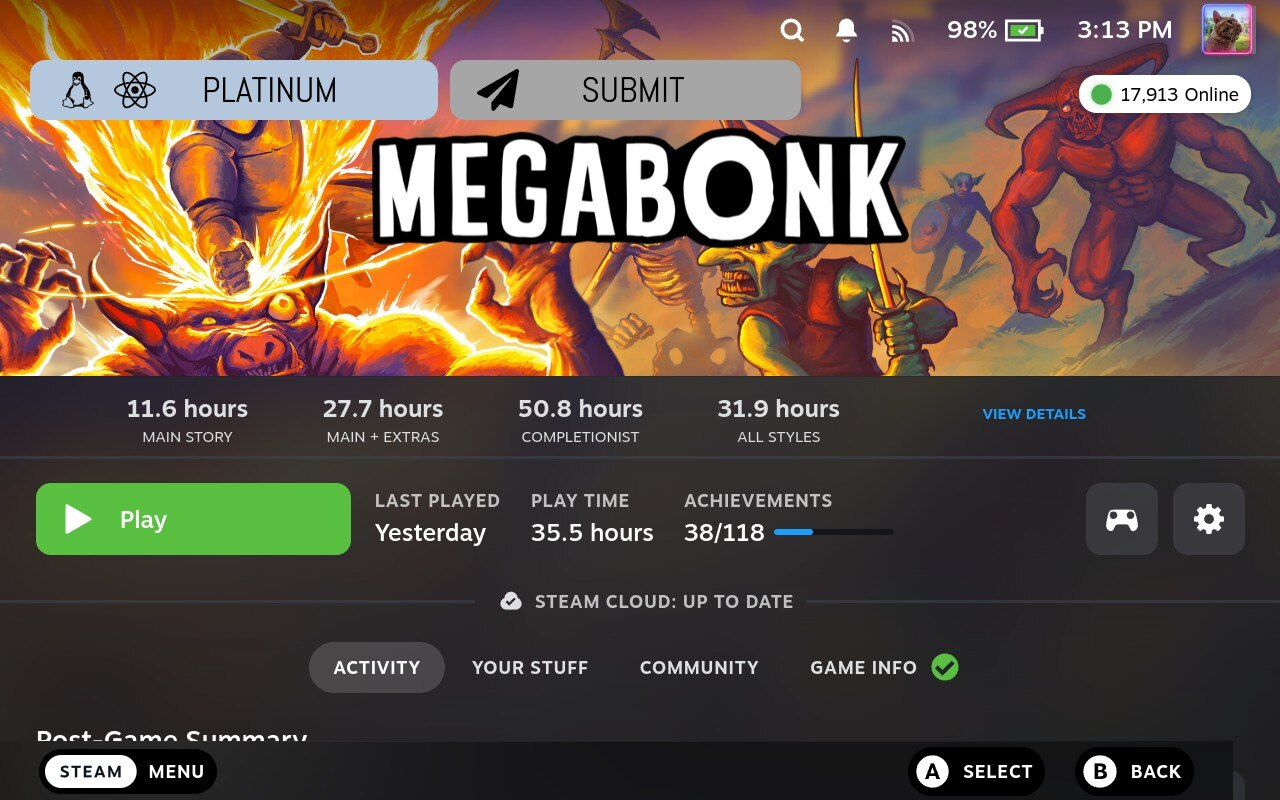
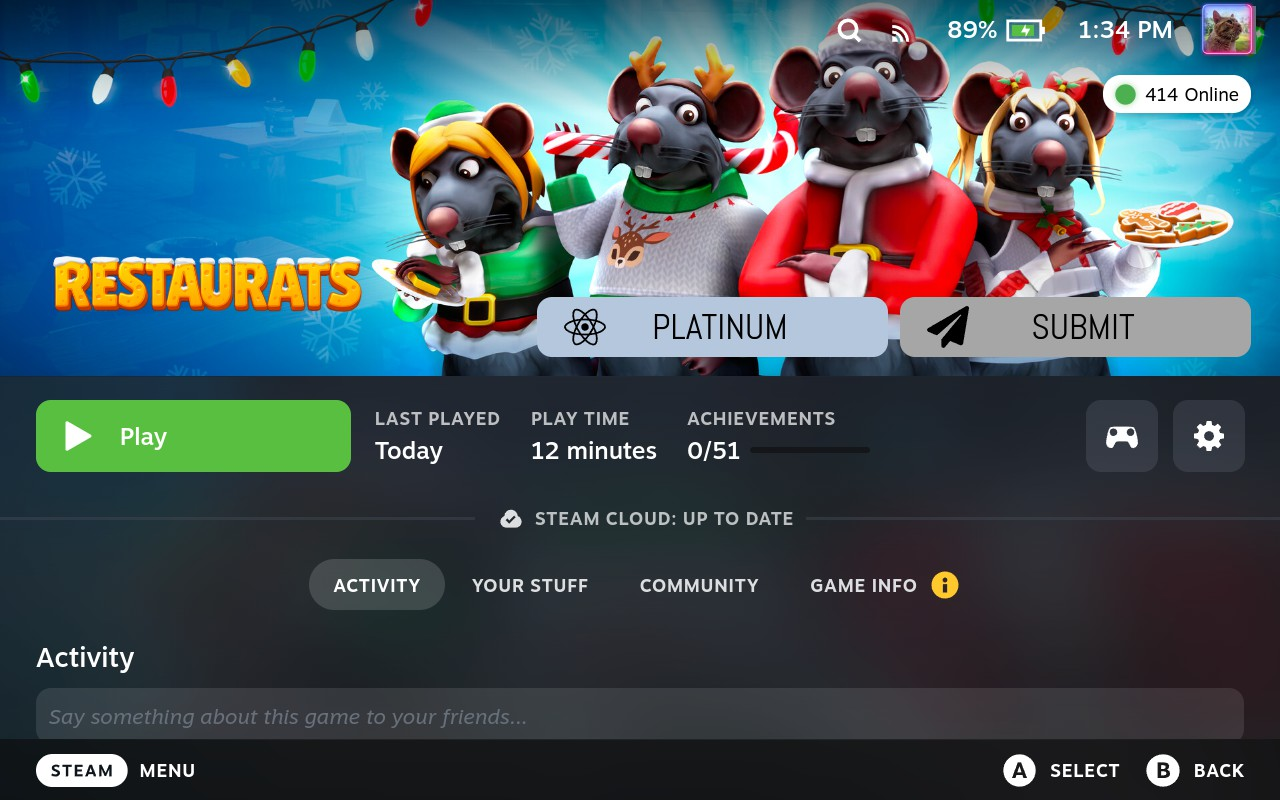
## [0.0.6] - 2025-12-28 ### Added - Toggle to enable/disable library page badges. - Reorganized settings into "Library" and "Store" section, as I think that will be easier in the future. - Updated screenshot & added screenshot in store page.
### Fixed
- Fixed default values for enableLibraryBadge and enableStoreBadge (now enabled by default)
- Fixed missing translations in DE, FR, ES, NL, IT, PT, PT-BR locale files (still autogenerated!)
- Increased store badge icon size to match library badge

### Known issues
- With external controller it is impossible to open the store badge. (on-screen you can click on it, opening protondb)

diff --git a/src/components/settings/index.tsx b/src/components/settings/index.tsx
@@ -104,7 +104,27 @@ export default function Index() {
           )}
         </div>
       )}
-      <DeckPanelSection title={t('settings')}>
+      <DeckPanelSection title={t('sectionLibrary')}>
+        <DeckPanelSectionRow>
+          <ToggleField
+            label={t('enableLibraryBadge')}
+            description={t('enableLibraryBadgeDesc')}
+            checked={settings.enableLibraryBadge}
+            onChange={(checked: boolean) => {
+              setEnableLibraryBadge(checked)
+            }}
+          />
+        </DeckPanelSectionRow>
+        <DeckPanelSectionRow>
+          <ToggleField
+            label={t('disableSubmit')}
+            description={t('disableSubmitDesc')}
+            checked={settings.disableSubmit}
+            onChange={(checked: boolean) => {
+              setDisableSubmit(checked)
+            }}
+          />
+        </DeckPanelSectionRow>
         <DeckPanelSectionRow>
           <DropdownItem
             label={t('badgeSize')}
@@ -173,27 +193,7 @@ export default function Index() {
           />
         </DeckPanelSectionRow>
       </DeckPanelSection>
-      <DeckPanelSection title="eXtended">
-        <DeckPanelSectionRow>
-          <ToggleField
-            label={t('disableSubmit')}
-            description={t('disableSubmitDesc')}
-            checked={settings.disableSubmit}
-            onChange={(checked: boolean) => {
-              setDisableSubmit(checked)
-            }}
-          />
-        </DeckPanelSectionRow>
-        <DeckPanelSectionRow>
-          <ToggleField
-            label={t('enableLibraryBadge')}
-            description={t('enableLibraryBadgeDesc')}
-            checked={settings.enableLibraryBadge}
-            onChange={(checked: boolean) => {
-              setEnableLibraryBadge(checked)
-            }}
-          />
-        </DeckPanelSectionRow>
+      <DeckPanelSection title={t('sectionStore')}>
         <DeckPanelSectionRow>
           <ToggleField
             label={t('enableStoreBadge')}

diff --git a/src/hooks/useSettings.ts b/src/hooks/useSettings.ts
@@ -12,8 +12,7 @@ export type Settings = {
   storeBadgePosition: 'bc' | 'bl' | 'br' | 'tm'
 }
 
-// Not using the React context here as this approach is simpler.
-export const SettingsContext = new BehaviorSubject<Settings>({
+const DEFAULT_SETTINGS: Settings = {
   size: 'regular',
   position: 'tl',
   labelTypeOnHover: 'off',
@@ -21,7 +20,10 @@ export const SettingsContext = new BehaviorSubject<Settings>({
   enableLibraryBadge: true,
   enableStoreBadge: true,
   storeBadgePosition: 'bc'
-})
+}
+
+// Not using the React context here as this approach is simpler.
+export const SettingsContext = new BehaviorSubject<Settings>(DEFAULT_SETTINGS)
 const LoadingContext = new BehaviorSubject(true)
 
 function updateSettings(
@@ -35,8 +37,12 @@ function updateSettings(
 
 export function loadSettings() {
   LoadingContext.next(true)
-  call<[string, Settings], Settings>('get_setting', 'settings', SettingsContext.value)
-    .then(settings => SettingsContext.next(settings))
+  call<[string, Settings], Settings>('get_setting', 'settings', DEFAULT_SETTINGS)
+    .then(settings => {
+      // Merge with defaults to handle missing fields from older versions
+      const mergedSettings = { ...DEFAULT_SETTINGS, ...settings }
+      SettingsContext.next(mergedSettings)
+    })
     .catch(console.error)
     .finally(() => LoadingContext.next(false))
 }

diff --git a/src/patches/StorePatch.ts b/src/patches/StorePatch.ts
@@ -75,7 +75,7 @@ async function injectBadgeIntoStore(appId: string) {
       const badge = document.createElement('div');
       badge.id = 'protondb-store-badge';
       badge.style.cssText = 'position: fixed; bottom: 20px; left: 50%; transform: translateX(-50%); z-index: 999999; background: ${tierColor.bg}; padding: 10px 20px; border-radius: 8px; color: ${tierColor.text}; font-family: Arial; font-size: 14px; cursor: pointer; border: 2px solid ${tierColor.border};';
-      badge.innerHTML = '<span style="margin-right: 8px;">⚛</span> PROTONDB: ${tierLabel}';
+      badge.innerHTML = '<span style="margin-right: 8px; font-size: 24px; vertical-align: middle;">⚛</span> PROTONDB: ${tierLabel}';
       badge.onclick = function() { window.open('https://www.protondb.com/app/${appId}', '_blank'); };
       document.body.appendChild(badge);
     })();

diff --git a/CHANGELOG.md b/CHANGELOG.md
@@ -1,5 +1,19 @@
 # Changelog
-All notable changes to the Protondb-decky-eXtended plugin are documented in this file.
+All important changes to the Protondb-decky-eXtended plugin are documented here.
+
+## [0.0.6] - 2025-12-28
+### Added
+- Toggle to enable/disable library page badges.
+- Reorganized settings into "Library" and "Store" section, as I think that will be easier in the future.
+- Updated screenshot & added screenshot in store page.
+
+### Fixed
+- Fixed default values for enableLibraryBadge and enableStoreBadge (now enabled by default)
+- Fixed missing translations in DE, FR, ES, NL, IT, PT, PT-BR locale files (still autogenerated!)
+- Increased store badge icon size to match library badge
+
+### Known issues
+- With external controller it is impossible to open the store badge. (on-screen you can click on it, opening protondb)
 
 ## [0.0.5] - 2025-12-28
 ### Added

diff --git a/README.md b/README.md
@@ -7,7 +7,13 @@
 Display **tappable ProtonDB badges** directly on your Steam library game pages — eXtended edition.
 And since version v0.0.5, this also contains a small overlay on the store!
 
+Library view:
+
 ![ProtonDB Badges](./assets/screenshot.jpg)
+
+Store view:
+
+![ProtonDB Badges](./assets/screenshot_store.jpg)
 
 ---
 
